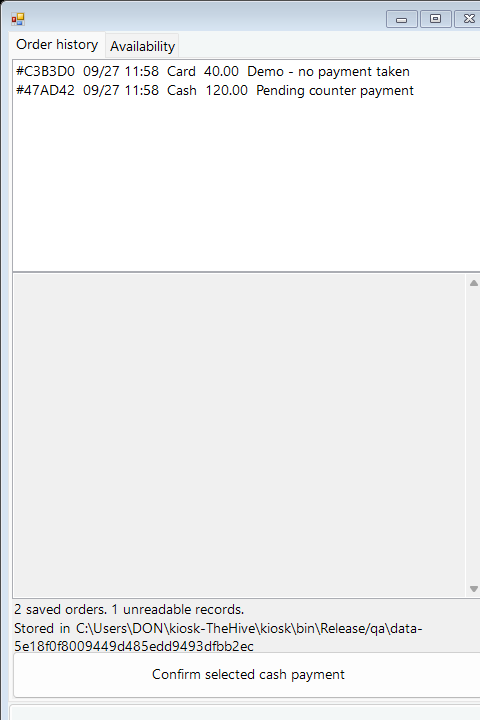
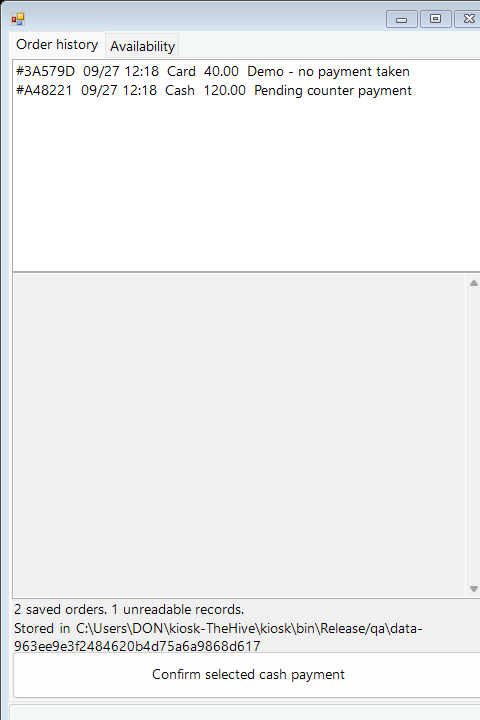
Drop the "Regular" line from items with nothing to choose
A rice meal in the cart read "Beef Tapa / Regular / P145.00". There is
nothing to choose on a rice meal, so "Regular" looked like an option the
guest had picked and told them nothing.

The word was a placeholder: OrderText.Describe returned "Regular" when
there were no options, and each caller had to know to hide it. Both
receipts did; the cart row did not. Describe now returns an empty string
when there is nothing to describe, the receipts test for empty instead
of for the word, and the cart row shows just the name and price, centred
in the card. The unused dictionary entry goes too.

New smoke check: a rice meal has no option line.

Changed region(s): [[0.0312, 0.0917, 0.875, 0.1528], [0.0312, 0.8861, 0.5312, 0.9167]]

diff --git a/kiosk/UI/HiveViews.cs b/kiosk/UI/HiveViews.cs
@@ -674,21 +674,29 @@ namespace kiosk.UI
             int left = (int)photo.Right + 12;
             int width = _qty.Left - 12 - left;
 
+            // Three lines when there are options to show; with nothing to choose
+            // (a rice meal) just the name and price, centred in the card.
+            string detail = OrderText.Describe(_order);
+            bool hasDetail = !string.IsNullOrEmpty(detail);
+            int nameY  = (int)card.Y + (hasDetail ? 14 : 20);
+            int totalY = (int)card.Y + (hasDetail ? 55 : 42);
+
             Hive.Text(g, _order.Product, Hive.Serif,
-                      new Rectangle(left, (int)card.Y + 14, width, 20), Hive.Ink,
+                      new Rectangle(left, nameY, width, 20), Hive.Ink,
                       Hive.LeftMid | TextFormatFlags.EndEllipsis);
 
-            Hive.Text(g, OrderText.Describe(_order), Hive.Caption,
-                      new Rectangle(left, (int)card.Y + 35, width, 18), Hive.Muted,
-                      Hive.LeftMid | TextFormatFlags.EndEllipsis);
+            if (hasDetail)
+                Hive.Text(g, detail, Hive.Caption,
+                          new Rectangle(left, (int)card.Y + 35, width, 18), Hive.Muted,
+                          Hive.LeftMid | TextFormatFlags.EndEllipsis);
 
             // line total, and the unit price beside it once there is more than one
             string total = Hive.Money(_order.Total);
             int totalW = TextRenderer.MeasureText(g, total, Hive.Price).Width;   // with padding, as Hive.Text draws it
-            Hive.Text(g, total, Hive.Price, new Rectangle(left - 3, (int)card.Y + 55, totalW, 24), Hive.Ink, Hive.LeftMid);
+            Hive.Text(g, total, Hive.Price, new Rectangle(left - 3, totalY, totalW, 24), Hive.Ink, Hive.LeftMid);
             if (_order.Quantity > 1)
                 Hive.Text(g, Hive.Money(_order.Price) + " each", Hive.Caption,
-                          new Rectangle(left + totalW + 2, (int)card.Y + 55, width - totalW - 2, 24), Hive.Muted,
+                          new Rectangle(left + totalW + 2, totalY, width - totalW - 2, 24), Hive.Muted,
                           Hive.LeftMid | TextFormatFlags.EndEllipsis);
         }
 
@@ -711,7 +719,9 @@ namespace kiosk.UI
             if (!string.IsNullOrWhiteSpace(order.Sweetness) && order.Sweetness != "100%")
                 parts.Add(GuestText.T(order.Sweetness + " sugar"));
 
-            return parts.Count == 0 ? "Regular" : string.Join(" / ", parts.ToArray());
+            // Empty when there is nothing to describe - a rice meal has no size,
+            // temperature or sweetness, and a placeholder word read like a choice.
+            return string.Join(" / ", parts.ToArray());
         }
     }
 

diff --git a/kiosk/Payments/ReceiptForm.cs b/kiosk/Payments/ReceiptForm.cs
@@ -167,7 +167,7 @@ namespace kiosk.Payments
                 string detail = OrderText.Describe(o);
                 string qty = "  " + o.Quantity + " x " + o.Price.ToString("N2");
 
-                if (detail == "Regular")
+                if (string.IsNullOrEmpty(detail))
                 {
                     r.AppendLine(qty);
                 }
@@ -363,7 +363,7 @@ namespace kiosk.Payments
 
                 string detail = OrderText.Describe(o);
                 string sub = o.Quantity + " x " + Hive.Money(o.Price);
-                if (detail != "Regular") sub += "   ·   " + detail;
+                if (!string.IsNullOrEmpty(detail)) sub += "   ·   " + detail;
 
                 if (g != null)
                     Hive.Text(g, sub, Hive.Caption, new Rectangle(left, y, w, 18), Hive.Muted, Hive.LeftMid);

diff --git a/tests/SmokeTests.cs b/tests/SmokeTests.cs
@@ -94,6 +94,8 @@ class SmokeTests
             OrderStorage.AddOrder(lessSweet);
             Check(OrderStorage.Orders.Count == 2 && OrderStorage.GetTotal() == 120, "different sweetness remains a separate line");
             Check(OrderText.Describe(lessSweet).Contains("50% sugar"), "cart and receipt description show sweetness");
+            Check(OrderText.Describe(new Order { Product = "Beef Tapa", Size = "", Temperature = "", Price = 145, Quantity = 1 }) == "",
+                "a rice meal has no option line, not a placeholder word");
             Fails(() => OrderStorage.AddOrder(Coffee(99)), "quantity overflow rejected");
             LocalStore.SetSoldOut("Americano", true);
             LocalStore.SoldOut.Clear(); LocalStore.LoadAvailability();

diff --git a/kiosk/UI/GuestText.cs b/kiosk/UI/GuestText.cs
@@ -106,7 +106,7 @@ namespace kiosk.UI
             { "SWIPE UP FOR MORE", "I-SWIPE PATAAS PARA SA IBA PA" },
             { "Date", "Petsa" }, { "Terminal", "Terminal" }, { "Payment", "Bayad" },
             { "Status", "Status" }, { "ITEM", "ITEM" }, { "AMOUNT", "HALAGA" },
-            { "Done", "Tapos" }, { "Regular", "Regular" }
+            { "Done", "Tapos" }
         };
 
         private static readonly Dictionary<string, string> ProductDescriptions = new Dictionary<string, string>(StringComparer.OrdinalIgnoreCase)
